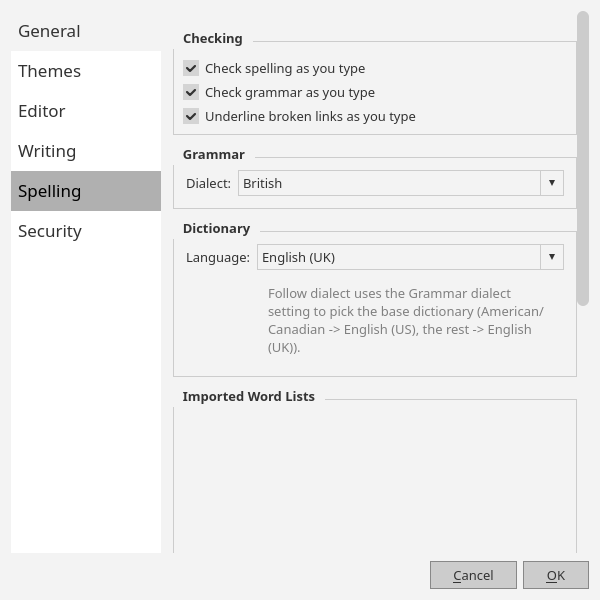
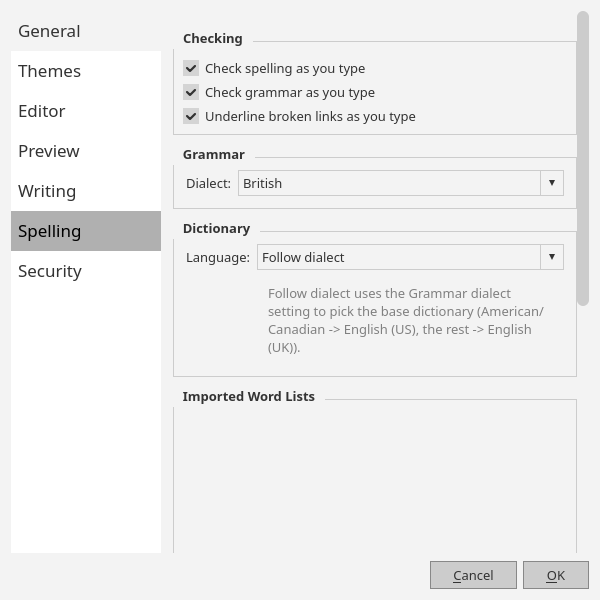
feat: debounce values moved to consts and the heavy-render delay moved to preferences/preview + new gallery screenshot

Changed region(s): [[0.0, 0.24, 0.27, 0.42], [0.45, 0.42, 0.57, 0.45], [0.03, 0.45, 0.15, 0.48]]

diff --git a/src/MainWindow.cpp b/src/MainWindow.cpp
@@ -135,12 +135,12 @@ MainWindow::MainWindow(QWidget *parent, bool skipSessionRestore)
 
     setWindowTitle("Scriba");
 
-    m_updateTimer = new DebounceTimer(80, this);
+    m_updateTimer = new DebounceTimer(Debounce::PreviewUpdate, this);
     connect(m_updateTimer, &QTimer::timeout, this, &MainWindow::updatePreview);
 
     m_anchorTimer = new QTimer(this);
     m_anchorTimer->setSingleShot(true);
-    m_anchorTimer->setInterval(300);
+    m_anchorTimer->setInterval(Debounce::AnchorScroll);
     connect(m_anchorTimer, &QTimer::timeout, this, &MainWindow::tryScrollPreviewToAnchor);
 
     m_autoSaveTimer = new QTimer(this);
@@ -1076,6 +1076,8 @@ void MainWindow::updatePreview()
     bool cspEnabled = prefs.value(Preferences::EnableCspPreview, true).toBool();
     if (!m_previewInitialized) {
         m_cachedPreviewBaseCss = baseCss;
+        int heavyRenderDelay = prefs.value(Preferences::HeavyRenderDelay,
+            Preferences::DefaultHeavyRenderDelay).toInt();
         QString renderCss = CssUtils::renderOverlayCss(rawThemeCss);
         m_cachedOverlayCss = renderCss;
         bool striping = prefs.value(Preferences::TableStriping, true).toBool();
@@ -1117,7 +1119,7 @@ void MainWindow::updatePreview()
             "<script src=\"qrc:///vega-embed.min.js\"></script>"
             "<script src=\"qrc:///twemoji.min.js\"></script>"
             "<script src=\"qrc:///emoji.js\"></script>"
-            "<script>" + mermaidInitJs + headingIdJs + anchorNavJs + katexInitJs + vegaLiteInitJs + setImgTitlesJs + "function twemojiParse(m){if(m==='color'&&typeof twemoji!=='undefined'){twemoji.parse(document.body,{base:'qrc:///twemoji/',folder:'svg',ext:'.svg',className:'emoji'});}}function scribaUpdate(html,themeCss,mermaidTheme,emojiMode){if(!document.body)return false;window._scribaGen=(window._scribaGen||0)+1;var gen=window._scribaGen;var sy=window.scrollY;var sh=document.body.scrollHeight;var ih=window.innerHeight;var pct=sh>ih?sy/(sh-ih):0;if(themeCss)document.getElementById('theme-css').textContent=themeCss;var sc=document.getElementById('scriba-content');if(sc)sc.innerHTML=html;else return false;clearTimeout(window._scribaHeavyTimer);window._scribaHeavyTimer=setTimeout(function(){if(gen!==window._scribaGen)return;mermaid.initialize({startOnLoad:false,theme:mermaidTheme});var mp=initMermaid();initKaTeX();var vp=initVegaLite();hljs.highlightAll();generateHeadingIds();setImgTitles();replaceEmoji(document.body);twemojiParse(emojiMode);function restoreScroll(){if(Math.abs(window.scrollY-sy)<2){var ih2=window.innerHeight;window.scrollTo(0,pct*Math.max(1,document.body.scrollHeight-ih2));}}var p=[];if(typeof mp!=='undefined')p.push(mp);if(typeof vp!=='undefined')p.push(vp);var imgs=document.querySelectorAll('img:not(.emoji)');if(imgs.length>0){p.push(new Promise(function(r){var n=0,t=imgs.length;function c(){n++;if(n>=t)r();}for(var i=0;i<imgs.length;i++){if(imgs[i].complete)c();else{imgs[i].onload=c;imgs[i].onerror=c;}}}));}if(p.length)Promise.all(p).then(restoreScroll);else restoreScroll();},1500);return true;}function scribaBeginRender(){var c=document.getElementById('scriba-content');if(c)c.innerHTML='';var o=document.getElementById('scriba-rendering-overlay');if(!o&&document.body){o=document.createElement('div');o.id='scriba-rendering-overlay';o.textContent='Rendering…';document.body.insertBefore(o,document.body.firstChild);}if(o)o.style.display='flex';}function scribaEndRender(){var o=document.getElementById('scriba-rendering-overlay');if(o)o.style.display='none';}document.addEventListener('DOMContentLoaded',function(){mermaid.initialize({startOnLoad:false,theme:'" + mermaidTheme + "'});hljs.registerAliases('vl',{languageName:'json'});hljs.highlightAll();generateHeadingIds();initKaTeX();setImgTitles();replaceEmoji(document.body);twemojiParse('" + emojiMode + "');var p=[];var mp=window.mermaidReady=initMermaid();var vp=window.vegaLiteReady=initVegaLite();if(typeof mp!=='undefined')p.push(mp);if(typeof vp!=='undefined')p.push(vp);var imgs=document.querySelectorAll('img:not(.emoji)');if(imgs.length>0){p.push(new Promise(function(r){var n=0,t=imgs.length;function c(){n++;if(n>=t)r();}for(var i=0;i<imgs.length;i++){if(imgs[i].complete)c();else{imgs[i].onload=c;imgs[i].onerror=c;}}}));}var scribaHideOverlay=function(){scribaEndRender();};if(p.length)Promise.all(p).then(scribaHideOverlay,scribaHideOverlay);else scribaHideOverlay();setTimeout(scribaHideOverlay,10000);});</script>"
+            "<script>window._scribaHeavyDelay=" + QString::number(heavyRenderDelay) + ";" + mermaidInitJs + headingIdJs + anchorNavJs + katexInitJs + vegaLiteInitJs + setImgTitlesJs + "function twemojiParse(m){if(m==='color'&&typeof twemoji!=='undefined'){twemoji.parse(document.body,{base:'qrc:///twemoji/',folder:'svg',ext:'.svg',className:'emoji'});}}function scribaUpdate(html,themeCss,mermaidTheme,emojiMode){if(!document.body)return false;window._scribaGen=(window._scribaGen||0)+1;var gen=window._scribaGen;var sy=window.scrollY;var sh=document.body.scrollHeight;var ih=window.innerHeight;var pct=sh>ih?sy/(sh-ih):0;if(themeCss)document.getElementById('theme-css').textContent=themeCss;var sc=document.getElementById('scriba-content');if(sc)sc.innerHTML=html;else return false;clearTimeout(window._scribaHeavyTimer);window._scribaHeavyTimer=setTimeout(function(){if(gen!==window._scribaGen)return;mermaid.initialize({startOnLoad:false,theme:mermaidTheme});var mp=initMermaid();initKaTeX();var vp=initVegaLite();hljs.highlightAll();generateHeadingIds();setImgTitles();replaceEmoji(document.body);twemojiParse(emojiMode);function restoreScroll(){if(Math.abs(window.scrollY-sy)<2){var ih2=window.innerHeight;window.scrollTo(0,pct*Math.max(1,document.body.scrollHeight-ih2));}}var p=[];if(typeof mp!=='undefined')p.push(mp);if(typeof vp!=='undefined')p.push(vp);var imgs=document.querySelectorAll('img:not(.emoji)');if(imgs.length>0){p.push(new Promise(function(r){var n=0,t=imgs.length;function c(){n++;if(n>=t)r();}for(var i=0;i<imgs.length;i++){if(imgs[i].complete)c();else{imgs[i].onload=c;imgs[i].onerror=c;}}}));}if(p.length)Promise.all(p).then(restoreScroll);else restoreScroll();},window._scribaHeavyDelay);return true;}function scribaBeginRender(){var c=document.getElementById('scriba-content');if(c)c.innerHTML='';var o=document.getElementById('scriba-rendering-overlay');if(!o&&document.body){o=document.createElement('div');o.id='scriba-rendering-overlay';o.textContent='Rendering…';document.body.insertBefore(o,document.body.firstChild);}if(o)o.style.display='flex';}function scribaEndRender(){var o=document.getElementById('scriba-rendering-overlay');if(o)o.style.display='none';}document.addEventListener('DOMContentLoaded',function(){mermaid.initialize({startOnLoad:false,theme:'" + mermaidTheme + "'});hljs.registerAliases('vl',{languageName:'json'});hljs.highlightAll();generateHeadingIds();initKaTeX();setImgTitles();replaceEmoji(document.body);twemojiParse('" + emojiMode + "');var p=[];var mp=window.mermaidReady=initMermaid();var vp=window.vegaLiteReady=initVegaLite();if(typeof mp!=='undefined')p.push(mp);if(typeof vp!=='undefined')p.push(vp);var imgs=document.querySelectorAll('img:not(.emoji)');if(imgs.length>0){p.push(new Promise(function(r){var n=0,t=imgs.length;function c(){n++;if(n>=t)r();}for(var i=0;i<imgs.length;i++){if(imgs[i].complete)c();else{imgs[i].onload=c;imgs[i].onerror=c;}}}));}var scribaHideOverlay=function(){scribaEndRender();};if(p.length)Promise.all(p).then(scribaHideOverlay,scribaHideOverlay);else scribaHideOverlay();setTimeout(scribaHideOverlay,10000);});</script>"
             "</head><body id=\"preview\">"
             "<div id=\"scriba-rendering-overlay\">Rendering…</div>"
             "<div id=\"scriba-content\">%3</div>"
@@ -1233,6 +1235,11 @@ void MainWindow::showPreferences()
             m_autoSaveTimer->start(interval * kMsPerMinute);
         else
             m_autoSaveTimer->stop();
+
+        int heavyDelay = s.value(Preferences::HeavyRenderDelay,
+            Preferences::DefaultHeavyRenderDelay).toInt();
+        if (m_previewInitialized)
+            m_preview->page()->runJavaScript(QString("window._scribaHeavyDelay=%1").arg(heavyDelay));
     } else {
         m_cssConfig->setActiveStylesheet(oldStylesheet);
         m_cssLoader->invalidateCache();

diff --git a/src/PreferencesDialog.cpp b/src/PreferencesDialog.cpp
@@ -551,7 +551,42 @@ void PreferencesDialog::setupUi(const QString &themeBgColor, const QString &them
         m_pageList->addItem("Editor");
     }
 
-    /* --- Page 3: Writing --- */
+    /* --- Page 3: Preview --- */
+    {
+        QWidget *page = new QWidget;
+        QVBoxLayout *layout = new QVBoxLayout(page);
+        layout->setContentsMargins(0, 16, 0, 0);
+        layout->setSpacing(8);
+
+        QGroupBox *renderGroup = new QGroupBox("Rendering");
+        QVBoxLayout *renderLayout = new QVBoxLayout(renderGroup);
+        renderLayout->addSpacing(8);
+
+        auto *renderLabel = new QLabel("Diagrams, equations and charts in the preview only "
+            "re-render after you pause typing for this long. Lower values make the preview "
+            "feel more responsive on small documents; higher values save CPU on large ones.");
+        renderLabel->setWordWrap(true);
+        renderLayout->addWidget(renderLabel);
+
+        m_heavyRenderDelaySpin = new QSpinBox();
+        m_heavyRenderDelaySpin->setRange(200, 5000);
+        m_heavyRenderDelaySpin->setSingleStep(150);
+        m_heavyRenderDelaySpin->setSuffix(" ms");
+        m_heavyRenderDelaySpin->setValue(settings.value(Preferences::HeavyRenderDelay,
+            Preferences::DefaultHeavyRenderDelay).toInt());
+        auto *renderForm = new QFormLayout;
+        renderForm->addRow("Heavy render delay:", m_heavyRenderDelaySpin);
+        renderLayout->addLayout(renderForm);
+
+        layout->addWidget(renderGroup);
+
+        layout->addStretch();
+
+        m_pages->addWidget(wrapPage(page));
+        m_pageList->addItem("Preview");
+    }
+
+    /* --- Page 4: Writing --- */
     {
         QWidget *page = new QWidget;
         QVBoxLayout *layout = new QVBoxLayout(page);
@@ -714,7 +749,7 @@ void PreferencesDialog::setupUi(const QString &themeBgColor, const QString &them
         m_pageList->addItem("Writing");
     }
 
-    /* --- Page 4: Spelling --- */
+    /* --- Page 5: Spelling --- */
     {
         QWidget *page = new QWidget;
         QVBoxLayout *layout = new QVBoxLayout(page);
@@ -941,7 +976,7 @@ void PreferencesDialog::setupUi(const QString &themeBgColor, const QString &them
         m_pageList->addItem("Spelling");
     }
 
-    /* --- Page 5: Security --- */
+    /* --- Page 6: Security --- */
     {
         QWidget *page = new QWidget;
         QVBoxLayout *layout = new QVBoxLayout(page);
@@ -1072,6 +1107,7 @@ void PreferencesDialog::setupUi(const QString &themeBgColor, const QString &them
         settings.setValue(Preferences::GutterColorOverride, m_gutterOverrideGroup->isChecked());
         settings.setValue(Preferences::GutterBgColor, m_gutterBgBtn->text());
         settings.setValue(Preferences::GutterTextColor, m_gutterTextBtn->text());
+        settings.setValue(Preferences::HeavyRenderDelay, m_heavyRenderDelaySpin->value());
         settings.setValue(Preferences::SpellCheckEnabled, m_spellCheckCheck->isChecked());
         settings.setValue(Preferences::GrammarCheckEnabled, m_grammarCheckCheck->isChecked());
         settings.setValue(Preferences::LinkCheckEnabled, m_linkCheckCheck->isChecked());

diff --git a/src/SpellHighlighter.cpp b/src/SpellHighlighter.cpp
@@ -15,6 +15,7 @@
 #include "SpellHighlighter.h"
 #include "LinkValidator.h"
 #include "SpellChecker.h"
+#include "StaticHelpers.h"
 #include <QColor>
 #include <QDateTime>
 #include <QDir>
@@ -111,10 +112,10 @@ SpellHighlighter::SpellHighlighter(QTextDocument *document, QObject *parent)
     if (parent)
         setParent(parent);
     m_lintTimer->setSingleShot(true);
-    m_lintTimer->setInterval(400);
+    m_lintTimer->setInterval(Debounce::SpellCheck);
     connect(m_lintTimer, &QTimer::timeout, this, &SpellHighlighter::runGrammarLint);
     m_spellTimer->setSingleShot(true);
-    m_spellTimer->setInterval(400);
+    m_spellTimer->setInterval(Debounce::SpellCheck);
     connect(m_spellTimer, &QTimer::timeout, this, &SpellHighlighter::runSpellCheck);
     // Schedule on contentsChange (not contentsChanged): rehighlight() and
     // other format-only work emit contentsChanged but no contentsChange, so

diff --git a/src/Preferences.h b/src/Preferences.h
@@ -18,6 +18,8 @@
 #include <QString>
 #include <QStringList>
 
+#include "StaticHelpers.h"
+
 namespace Preferences {
     constexpr const char *CssFiles = "cssFiles";
     constexpr const char *ActiveCssFile = "activeCssFile";
@@ -44,6 +46,9 @@ namespace Preferences {
     constexpr const char *FileCompletionLimit = "fileCompletionLimit";
     constexpr const char *FileAutoComplete = "fileAutoComplete";
     constexpr const char *LanguageAutoComplete = "languageAutoComplete";
+
+    constexpr const char *HeavyRenderDelay = "heavyRenderDelay";
+    constexpr int DefaultHeavyRenderDelay = Debounce::HeavyRender;
 
     constexpr const char *ConfigVersion = "configVersion";
     constexpr int CurrentConfigVersion = 1;

diff --git a/src/StaticHelpers.h b/src/StaticHelpers.h
@@ -69,4 +69,13 @@ public:
     void arm();
 };
 
+namespace Debounce {
+    constexpr int PreviewUpdate = 80;   // MainWindow live-preview push timer
+    constexpr int AnchorScroll  = 300;  // MainWindow scroll-sync anchor timer
+    constexpr int FoldScan      = 300;  // Editor fold rescan after editing
+    constexpr int SpellCheck    = 400;  // SpellHighlighter spell/grammar timers
+    constexpr int DialogPreview = 300;  // Mermaid/KaTeX/Mchem/Vega dialog previews
+    constexpr int HeavyRender   = 1500; // JS heavy-render setTimeout in preview
+}
+
 class QWebEngineView;

diff --git a/src/Editor.cpp b/src/Editor.cpp
@@ -76,7 +76,7 @@ Editor::Editor(QWidget *parent)
 
     auto *foldTimer = new QTimer(this);
     foldTimer->setSingleShot(true);
-    foldTimer->setInterval(300);
+    foldTimer->setInterval(Debounce::FoldScan);
     connect(foldTimer, &QTimer::timeout, this, &Editor::scanHeadersAndFolds);
     connect(document(), &QTextDocument::contentsChanged, this, [this, foldTimer]() {
         if (!m_updatingFolds)

diff --git a/src/MchemHelperDialog.cpp b/src/MchemHelperDialog.cpp
@@ -140,7 +140,7 @@ MchemHelperDialog::MchemHelperDialog(const QString &themeCss, QWidget *parent)
     setWindowTitle("Insert Chemistry Notation");
     resize(640, 700);
 
-    m_previewTimer = new DebounceTimer(300, this);
+    m_previewTimer = new DebounceTimer(Debounce::DialogPreview, this);
     connect(m_previewTimer, &QTimer::timeout, this, &MchemHelperDialog::updatePreview);
 
     setupUi();

diff --git a/src/KatexHelperDialog.cpp b/src/KatexHelperDialog.cpp
@@ -170,7 +170,7 @@ KatexHelperDialog::KatexHelperDialog(const QString &themeCss, QWidget *parent)
     setWindowTitle("Insert Equation");
     resize(640, 700);
 
-    m_previewTimer = new DebounceTimer(300, this);
+    m_previewTimer = new DebounceTimer(Debounce::DialogPreview, this);
     connect(m_previewTimer, &QTimer::timeout, this, &KatexHelperDialog::updatePreview);
 
     setupUi();

diff --git a/src/MermaidDialog.cpp b/src/MermaidDialog.cpp
@@ -107,7 +107,7 @@ void MermaidDialog::setupUi()
 
     auto *mainLayout = new QVBoxLayout(this);
 
-    m_previewTimer = new DebounceTimer(300, this);
+    m_previewTimer = new DebounceTimer(Debounce::DialogPreview, this);
     connect(m_previewTimer, &QTimer::timeout, this, &MermaidDialog::updatePreview);
 
     auto *splitter = new QSplitter(Qt::Horizontal, this);

diff --git a/src/VegaLiteDialog.cpp b/src/VegaLiteDialog.cpp
@@ -89,7 +89,7 @@ VegaLiteDialog::VegaLiteDialog(QWidget *parent)
     setWindowTitle("Chart Builder");
     resize(1100, 700);
 
-    m_previewTimer = new DebounceTimer(300, this);
+    m_previewTimer = new DebounceTimer(Debounce::DialogPreview, this);
     connect(m_previewTimer, &QTimer::timeout, this, &VegaLiteDialog::updatePreview);
 
     setupUi();

diff --git a/src/PreferencesDialog.h b/src/PreferencesDialog.h
@@ -121,6 +121,9 @@ private:
     QPushButton *m_editorBgBtn;
     QPushButton *m_editorFontBtn;
 
+    // Preview
+    QSpinBox *m_heavyRenderDelaySpin;
+
     // Gutter
     QCheckBox *m_showLineNumbersCheck;
     QGroupBox *m_gutterOverrideGroup;

diff --git a/README.md b/README.md
@@ -26,9 +26,9 @@
 | --- | --- | --- |
 | [![General](docs/images/preferences-general.png)](docs/images/preferences-general.png) | [![Themes](docs/images/preferences-themes.png)](docs/images/preferences-themes.png) | [![Editor](docs/images/preferences-editor.png)](docs/images/preferences-editor.png) |
 
-| Writing | Spelling | Security |
-| --- | --- | --- |
-| [![Writing](docs/images/preferences-writing.png)](docs/images/preferences-writing.png) | [![Spelling](docs/images/preferences-spelling.png)](docs/images/preferences-spelling.png) | [![Security](docs/images/preferences-security.png)](docs/images/preferences-security.png) |
+| Writing | Spelling | Security | Preview |
+| --- | --- | --- | --- |
+| [![Writing](docs/images/preferences-writing.png)](docs/images/preferences-writing.png) | [![Spelling](docs/images/preferences-spelling.png)](docs/images/preferences-spelling.png) | [![Security](docs/images/preferences-security.png)](docs/images/preferences-security.png) | [![Preview](docs/images/preferences-preview.png)](docs/images/preferences-preview.png) |
 
 ### Dialogues
 
